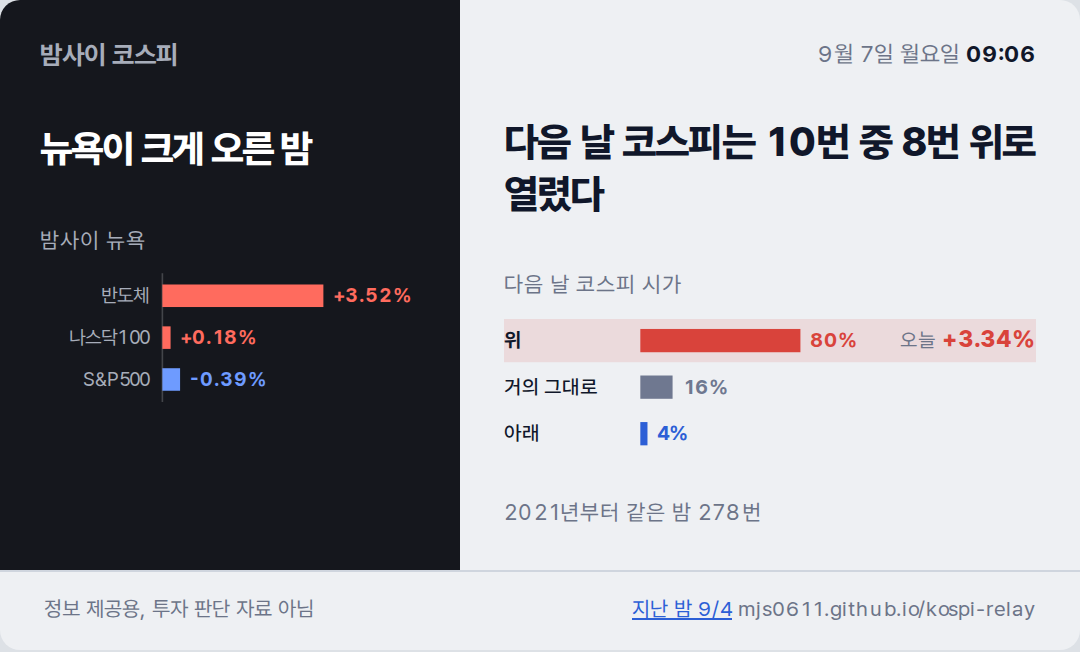
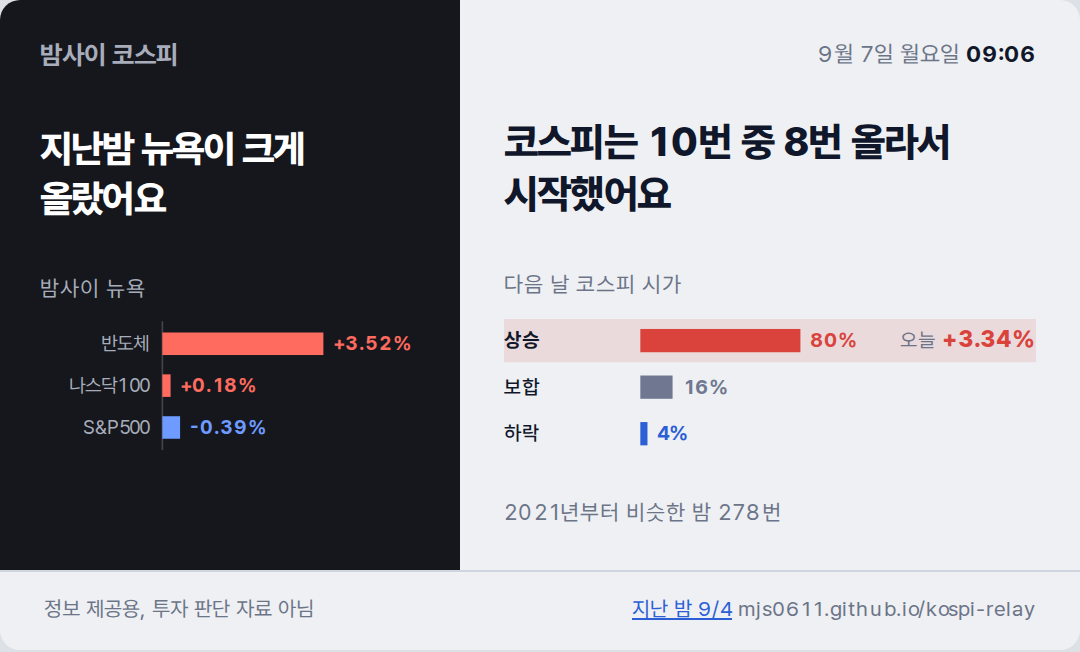
deploy: 0d4001b416dd4b3fe99a7ea6a09d50e08a56c1f2

diff --git a/2026-09-07/index.html b/2026-09-07/index.html
@@ -1,7 +1,7 @@
 <!doctype html><html lang="ko"><head><meta charset="utf-8"><meta name="viewport" content="width=device-width,initial-scale=1">
 <title>밤사이 코스피 · 2026-09-07</title>
 <meta name="description" content="전일 코스피 마감에서 밤사이 뉴욕을 거쳐 오늘 코스피 시가까지, 한 장.">
-<meta property="og:title" content="밤사이 코스피 09.07"><meta property="og:image" content="https://mjs0611.github.io/kospi-relay/relay.png"><meta property="og:description" content="뉴욕이 크게 오른 밤. 다음 날 코스피는 10번 중 8번 위로 열렸다">
+<meta property="og:title" content="밤사이 코스피 09.07"><meta property="og:image" content="https://mjs0611.github.io/kospi-relay/relay.png"><meta property="og:description" content="지난밤 뉴욕이 크게 올랐어요. 코스피는 10번 중 8번 올라서 시작했어요">
 <link rel="stylesheet" href="https://cdn.jsdelivr.net/gh/orioncactus/pretendard@v1.3.9/dist/web/variable/pretendardvariable-dynamic-subset.min.css">
 <style>
 /* 밤 / 낮 두 쪽. 왼쪽은 밤사이 뉴욕(어둡게), 오른쪽은 다음 날 코스피 시가(밝게). 경계가 곧 릴레이.
@@ -22,7 +22,7 @@ footer{grid-column:1/-1;display:flex;justify-content:space-between;gap:12px;padd
 footer a{color:#2C5FD6}
 @media (max-width:480px){.sheet{grid-template-columns:1fr}.cond{margin-top:18px}.claim{margin-top:4px}}
 </style></head><body><div class="sheet">
-<section class="night"><p class="brand">밤사이 코스피</p><p class="cond">뉴욕이 크게 오른 밤</p><p class="lab">밤사이 뉴욕</p><svg viewBox="0 0 236 84" xmlns="http://www.w3.org/2000/svg" font-family="var(--sans)" font-size="12">
+<section class="night"><p class="brand">밤사이 코스피</p><p class="cond">지난밤 뉴욕이 크게 올랐어요</p><p class="lab">밤사이 뉴욕</p><svg viewBox="0 0 236 84" xmlns="http://www.w3.org/2000/svg" font-family="var(--sans)" font-size="12">
 <line x1="76" y1="2" x2="76" y2="82" stroke="var(--rule)" stroke-width="1"/>
 <text x="68" y="20" text-anchor="end" fill="var(--muted)">반도체</text>
 <rect x="76" y="9" width="100.0" height="14" fill="var(--up)"/>
@@ -34,18 +34,18 @@ footer a{color:#2C5FD6}
 <rect x="76" y="61" width="11.0" height="14" fill="var(--down)"/>
 <text x="93.0" y="72" fill="var(--down)" font-weight="700">-0.39%</text>
 </svg></section>
-<section class="day"><p class="stamp">9월 7일 월요일 <b>09:06</b></p><p class="claim">다음 날 코스피는 10번 중 8번 위로 열렸다</p><p class="lab">다음 날 코스피 시가</p><svg viewBox="0 0 320 100" xmlns="http://www.w3.org/2000/svg" font-family="var(--sans)" font-size="12">
+<section class="day"><p class="stamp">9월 7일 월요일 <b>09:06</b></p><p class="claim">코스피는 10번 중 8번 올라서 시작했어요</p><p class="lab">다음 날 코스피 시가</p><svg viewBox="0 0 320 100" xmlns="http://www.w3.org/2000/svg" font-family="var(--sans)" font-size="12">
 <rect x="0" y="3" width="320" height="26" fill="var(--up)" opacity=".12"/>
-<text x="0" y="20" fill="var(--ink)" font-weight="700">위</text>
+<text x="0" y="20" fill="var(--ink)" font-weight="700">상승</text>
 <rect x="82" y="9" width="96.3" height="14" fill="var(--up)"/>
 <text x="184.3" y="20" fill="var(--up)" font-weight="700">80%</text>
 <text x="320" y="20" text-anchor="end" fill="var(--ink)"><tspan fill="var(--muted)">오늘 </tspan><tspan font-weight="800" font-size="14" fill="var(--up)">+3.34%</tspan></text>
-<text x="0" y="48" fill="var(--ink)" font-weight="500">거의 그대로</text>
+<text x="0" y="48" fill="var(--ink)" font-weight="500">보합</text>
 <rect x="82" y="37" width="19.4" height="14" fill="var(--flat)"/>
 <text x="107.4" y="48" fill="var(--flat)" font-weight="700">16%</text>
-<text x="0" y="76" fill="var(--ink)" font-weight="500">아래</text>
+<text x="0" y="76" fill="var(--ink)" font-weight="500">하락</text>
 <rect x="82" y="65" width="4.3" height="14" fill="var(--down)"/>
 <text x="92.3" y="76" fill="var(--down)" font-weight="700">4%</text>
-</svg><p class="cap">2021년부터 같은 밤 278번</p></section>
+</svg><p class="cap">2021년부터 비슷한 밤 278번</p></section>
 <footer><span>정보 제공용, 투자 판단 자료 아님</span><span style="white-space:nowrap"><a href="../2026-09-04/">지난 밤 9/4</a> mjs0611.github.io/kospi-relay</span></footer>
 </div></body></html>

diff --git a/index.html b/index.html
@@ -1,7 +1,7 @@
 <!doctype html><html lang="ko"><head><meta charset="utf-8"><meta name="viewport" content="width=device-width,initial-scale=1">
 <title>밤사이 코스피 · 2026-09-07</title>
 <meta name="description" content="전일 코스피 마감에서 밤사이 뉴욕을 거쳐 오늘 코스피 시가까지, 한 장.">
-<meta property="og:title" content="밤사이 코스피 09.07"><meta property="og:image" content="https://mjs0611.github.io/kospi-relay/relay.png"><meta property="og:description" content="뉴욕이 크게 오른 밤. 다음 날 코스피는 10번 중 8번 위로 열렸다">
+<meta property="og:title" content="밤사이 코스피 09.07"><meta property="og:image" content="https://mjs0611.github.io/kospi-relay/relay.png"><meta property="og:description" content="지난밤 뉴욕이 크게 올랐어요. 코스피는 10번 중 8번 올라서 시작했어요">
 <link rel="stylesheet" href="https://cdn.jsdelivr.net/gh/orioncactus/pretendard@v1.3.9/dist/web/variable/pretendardvariable-dynamic-subset.min.css">
 <style>
 /* 밤 / 낮 두 쪽. 왼쪽은 밤사이 뉴욕(어둡게), 오른쪽은 다음 날 코스피 시가(밝게). 경계가 곧 릴레이.
@@ -22,7 +22,7 @@ footer{grid-column:1/-1;display:flex;justify-content:space-between;gap:12px;padd
 footer a{color:#2C5FD6}
 @media (max-width:480px){.sheet{grid-template-columns:1fr}.cond{margin-top:18px}.claim{margin-top:4px}}
 </style></head><body><div class="sheet">
-<section class="night"><p class="brand">밤사이 코스피</p><p class="cond">뉴욕이 크게 오른 밤</p><p class="lab">밤사이 뉴욕</p><svg viewBox="0 0 236 84" xmlns="http://www.w3.org/2000/svg" font-family="var(--sans)" font-size="12">
+<section class="night"><p class="brand">밤사이 코스피</p><p class="cond">지난밤 뉴욕이 크게 올랐어요</p><p class="lab">밤사이 뉴욕</p><svg viewBox="0 0 236 84" xmlns="http://www.w3.org/2000/svg" font-family="var(--sans)" font-size="12">
 <line x1="76" y1="2" x2="76" y2="82" stroke="var(--rule)" stroke-width="1"/>
 <text x="68" y="20" text-anchor="end" fill="var(--muted)">반도체</text>
 <rect x="76" y="9" width="100.0" height="14" fill="var(--up)"/>
@@ -34,18 +34,18 @@ footer a{color:#2C5FD6}
 <rect x="76" y="61" width="11.0" height="14" fill="var(--down)"/>
 <text x="93.0" y="72" fill="var(--down)" font-weight="700">-0.39%</text>
 </svg></section>
-<section class="day"><p class="stamp">9월 7일 월요일 <b>09:06</b></p><p class="claim">다음 날 코스피는 10번 중 8번 위로 열렸다</p><p class="lab">다음 날 코스피 시가</p><svg viewBox="0 0 320 100" xmlns="http://www.w3.org/2000/svg" font-family="var(--sans)" font-size="12">
+<section class="day"><p class="stamp">9월 7일 월요일 <b>09:06</b></p><p class="claim">코스피는 10번 중 8번 올라서 시작했어요</p><p class="lab">다음 날 코스피 시가</p><svg viewBox="0 0 320 100" xmlns="http://www.w3.org/2000/svg" font-family="var(--sans)" font-size="12">
 <rect x="0" y="3" width="320" height="26" fill="var(--up)" opacity=".12"/>
-<text x="0" y="20" fill="var(--ink)" font-weight="700">위</text>
+<text x="0" y="20" fill="var(--ink)" font-weight="700">상승</text>
 <rect x="82" y="9" width="96.3" height="14" fill="var(--up)"/>
 <text x="184.3" y="20" fill="var(--up)" font-weight="700">80%</text>
 <text x="320" y="20" text-anchor="end" fill="var(--ink)"><tspan fill="var(--muted)">오늘 </tspan><tspan font-weight="800" font-size="14" fill="var(--up)">+3.34%</tspan></text>
-<text x="0" y="48" fill="var(--ink)" font-weight="500">거의 그대로</text>
+<text x="0" y="48" fill="var(--ink)" font-weight="500">보합</text>
 <rect x="82" y="37" width="19.4" height="14" fill="var(--flat)"/>
 <text x="107.4" y="48" fill="var(--flat)" font-weight="700">16%</text>
-<text x="0" y="76" fill="var(--ink)" font-weight="500">아래</text>
+<text x="0" y="76" fill="var(--ink)" font-weight="500">하락</text>
 <rect x="82" y="65" width="4.3" height="14" fill="var(--down)"/>
 <text x="92.3" y="76" fill="var(--down)" font-weight="700">4%</text>
-</svg><p class="cap">2021년부터 같은 밤 278번</p></section>
+</svg><p class="cap">2021년부터 비슷한 밤 278번</p></section>
 <footer><span>정보 제공용, 투자 판단 자료 아님</span><span style="white-space:nowrap"><a href="./2026-09-04/">지난 밤 9/4</a> mjs0611.github.io/kospi-relay</span></footer>
 </div></body></html>
